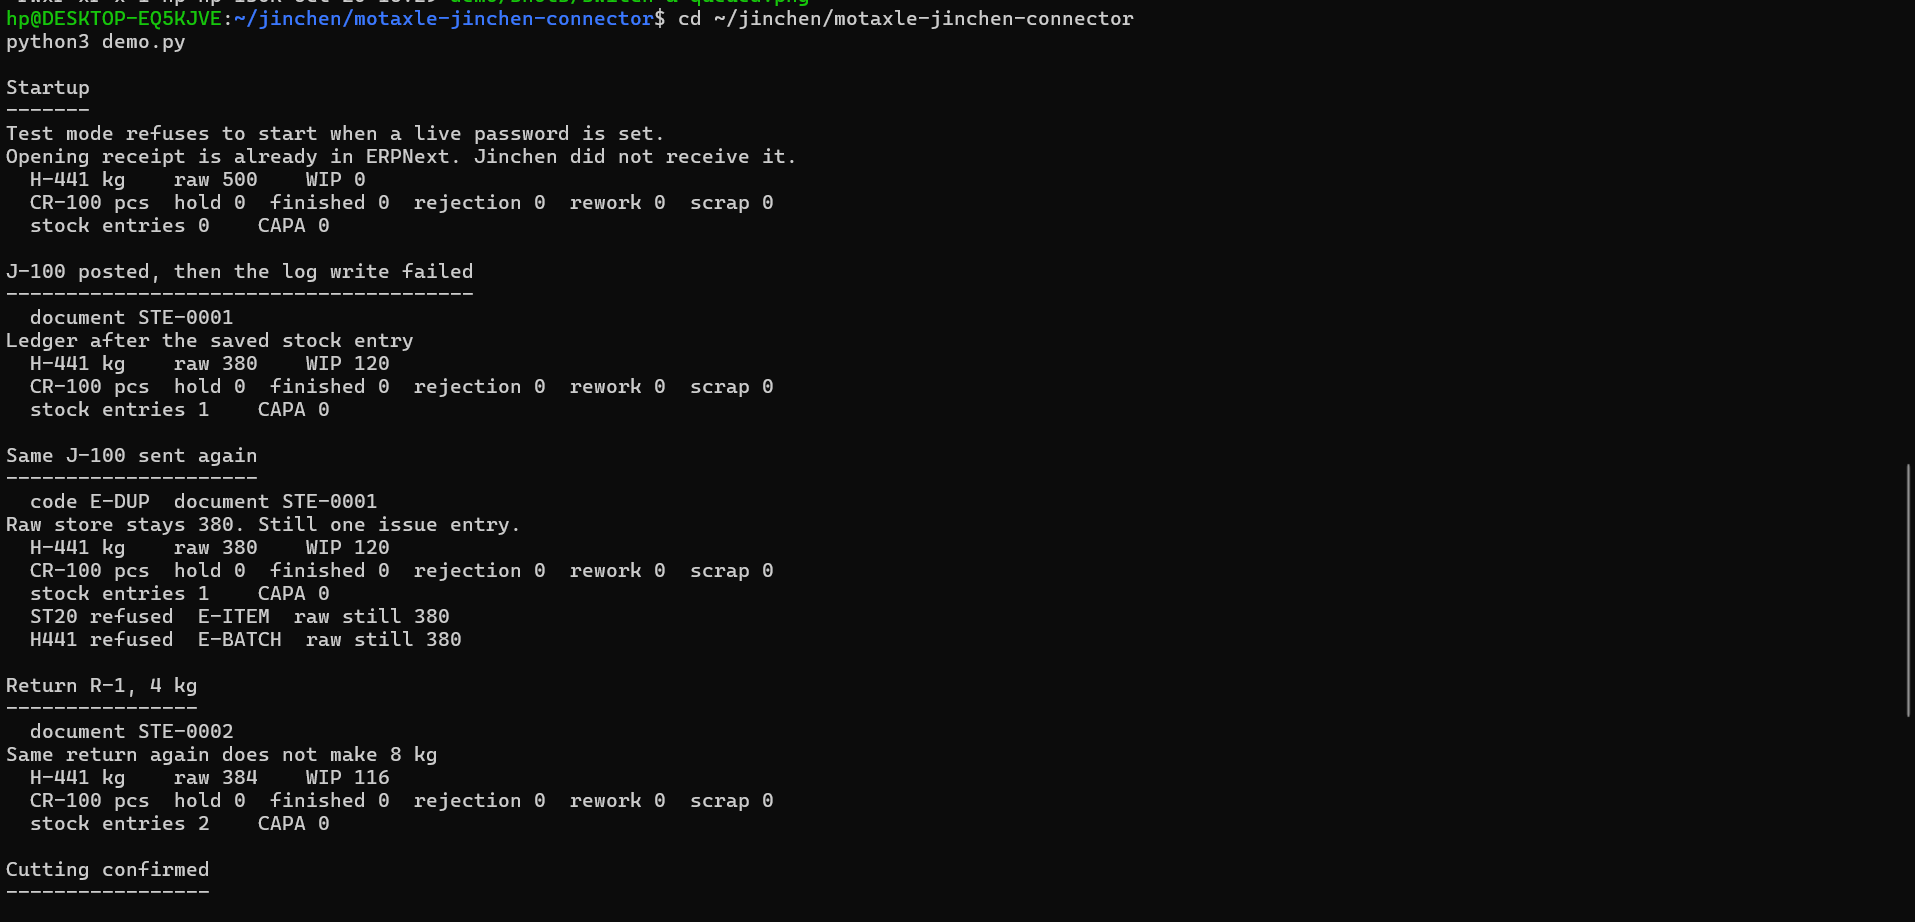
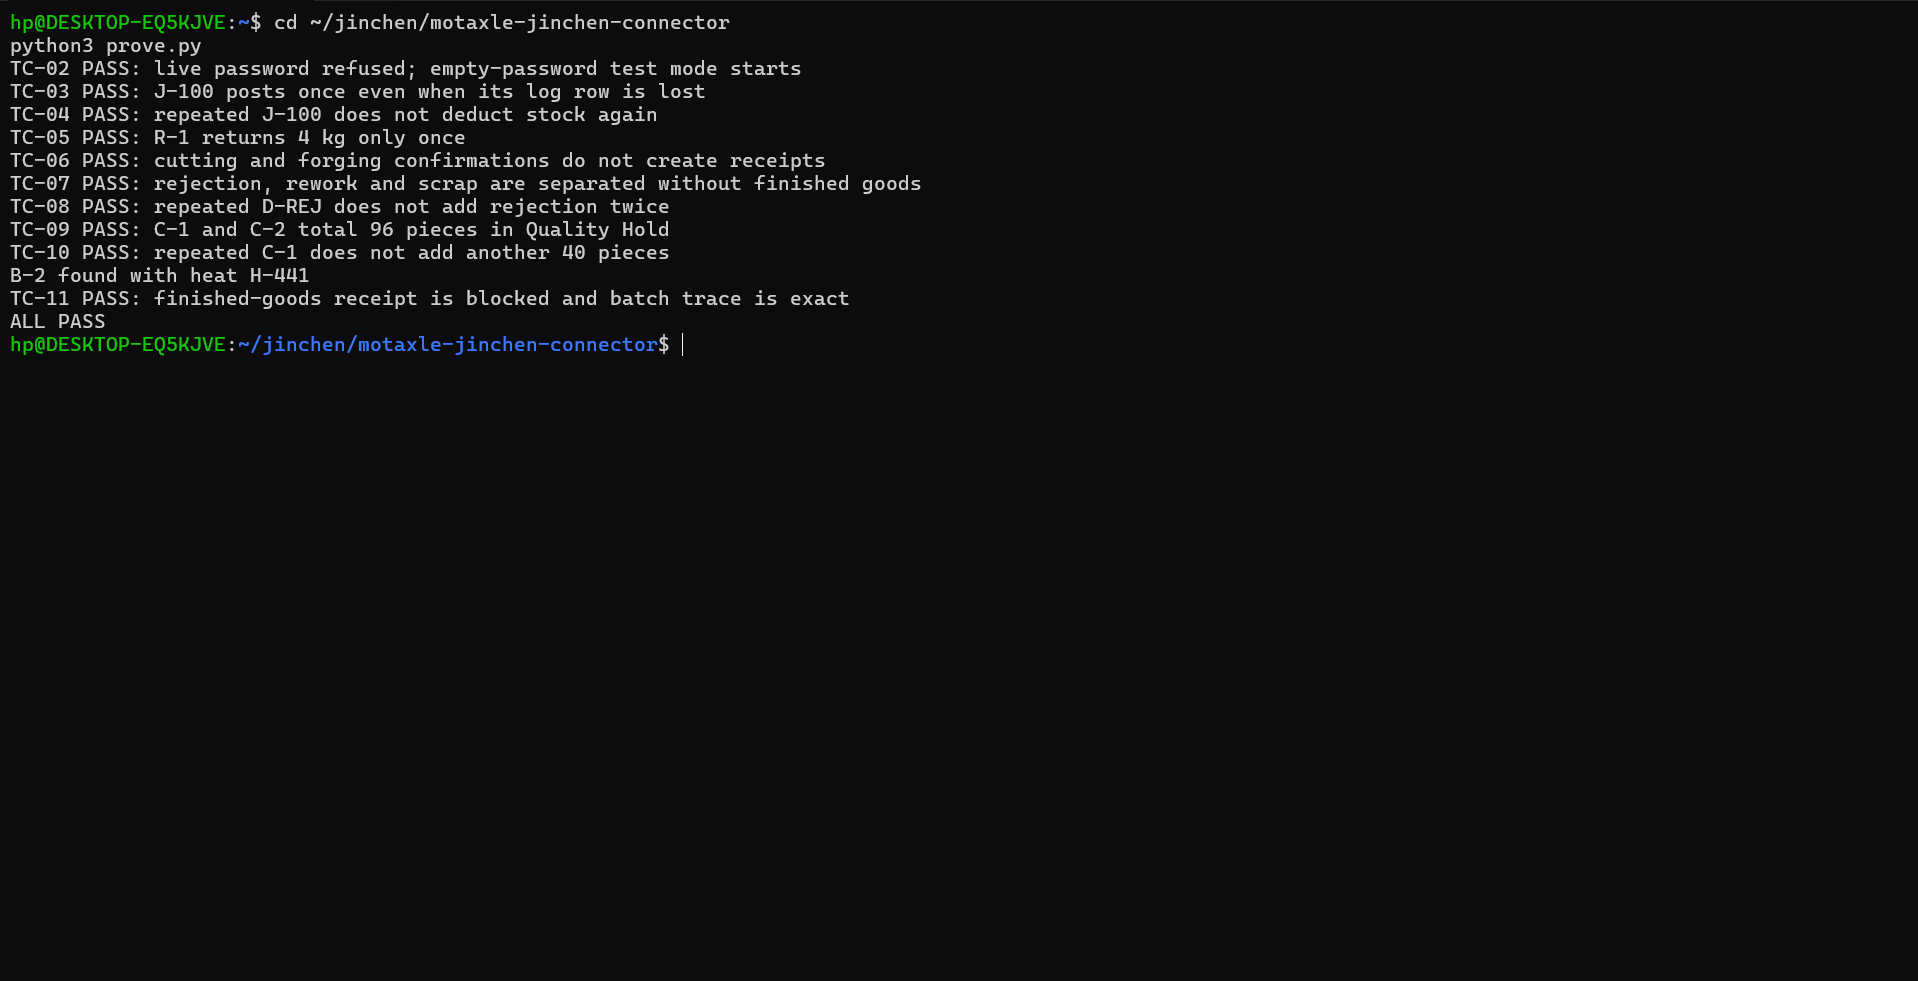
Add issue-linked returns and stock validation rules

diff --git a/motaxle-jinchen-connector/tests/test_rules.py b/motaxle-jinchen-connector/tests/test_rules.py
@@ -1,0 +1,185 @@
+
+
+import unittest
+
+from connector.poc import Connector
+
+
+def make_issue():
+    return {
+        "kind": "issue",
+        "id": "J-100",
+        "work_order": "WO-2401",
+        "item": "ST-20",
+        "qty": 120,
+        "uom": "Kg",
+        "batch": "H-441",
+        "from_warehouse": "Raw Material Store",
+        "to_warehouse": "Forging WIP",
+    }
+
+
+def make_return(ref, **overrides):
+    message = {
+        "kind": "return",
+        "id": ref,
+        "work_order": "WO-2401",
+        "against": "J-100",
+        "item": "ST-20",
+        "qty": 4,
+        "batch": "H-441",
+    }
+    message.update(overrides)
+    return message
+
+
+class ReturnUomRules(unittest.TestCase):
+    def test_wrong_return_uom_is_rejected_without_stock_change(self):
+        connector = Connector()
+        connector.process(make_issue())
+        before_kg = connector.kg().copy()
+        before_entries = len(connector.ledger.entries)
+
+        result = connector.process(make_return("R-BAD-UOM", uom="Nos"))
+
+        self.assertEqual(result.code, "E-UOM")
+        self.assertEqual(connector.kg(), before_kg)
+        self.assertEqual(len(connector.ledger.entries), before_entries)
+
+    def test_missing_return_uom_is_allowed(self):
+        connector = Connector()
+        connector.process(make_issue())
+
+        result = connector.process(make_return("R-NO-UOM"))
+
+        self.assertEqual(result.status, "Posted")
+        self.assertEqual(connector.kg()["raw"], 384)
+        self.assertEqual(connector.kg()["wip"], 116)
+
+
+if __name__ == "__main__":
+    unittest.main()
+
+
+class ReceiptUomRules(unittest.TestCase):
+    def make_receipt(self, ref, **overrides):
+        message = {
+            "kind": "receipt",
+            "id": ref,
+            "work_order": "WO-2401",
+            "item": "CR-100",
+            "qty": 5,
+            "batch": "B-UOM",
+        }
+        message.update(overrides)
+        return message
+
+    def test_wrong_receipt_uom_is_rejected_without_stock_change(self):
+        connector = Connector()
+        before_pieces = connector.pieces().copy()
+        before_entries = len(connector.ledger.entries)
+
+        result = connector.process(
+            self.make_receipt("C-BAD-UOM", uom="Kg")
+        )
+
+        self.assertEqual(result.code, "E-UOM")
+        self.assertEqual(connector.pieces(), before_pieces)
+        self.assertEqual(len(connector.ledger.entries), before_entries)
+
+    def test_missing_receipt_uom_is_allowed(self):
+        connector = Connector()
+
+        result = connector.process(self.make_receipt("C-NO-UOM"))
+
+        self.assertEqual(result.status, "Posted")
+        self.assertEqual(connector.pieces()["hold"], 5)
+        self.assertEqual(connector.pieces()["finished"], 0)
+
+
+class DispositionItemRules(unittest.TestCase):
+    def make_disposition(self, ref, **overrides):
+        message = {
+            "kind": "disposition",
+            "id": ref,
+            "work_order": "WO-2401",
+            "item": "CR-100",
+            "qty": 2,
+            "decision": "rejection",
+            "reason": "forge-crack",
+        }
+        message.update(overrides)
+        return message
+
+    def assert_item_rejected(self, message):
+        connector = Connector()
+        before_kg = connector.kg().copy()
+        before_pieces = connector.pieces().copy()
+        before_entries = len(connector.ledger.entries)
+        before_capa = connector.ledger.capa
+
+        result = connector.process(message)
+
+        self.assertEqual(result.code, "E-ITEM")
+        self.assertEqual(connector.kg(), before_kg)
+        self.assertEqual(connector.pieces(), before_pieces)
+        self.assertEqual(connector.pieces()["finished"], 0)
+        self.assertEqual(connector.ledger.capa, before_capa)
+        self.assertEqual(len(connector.ledger.entries), before_entries)
+
+    def test_wrong_disposition_item_is_rejected(self):
+        self.assert_item_rejected(
+            self.make_disposition("D-WRONG-ITEM", item="ST-20")
+        )
+
+    def test_missing_disposition_item_is_rejected(self):
+        self.assert_item_rejected(
+            self.make_disposition("D-MISSING-ITEM", item="")
+        )
+
+
+class ReturnAgainstIssueRules(unittest.TestCase):
+    def test_returns_reduce_only_their_own_issue_quantity(self):
+        connector = Connector()
+
+        first_issue = make_issue()
+        first_issue["qty"] = 120
+
+        second_issue = make_issue()
+        second_issue.update({"id": "J-200", "qty": 100})
+
+        self.assertEqual(connector.process(first_issue).status, "Posted")
+        self.assertEqual(connector.process(second_issue).status, "Posted")
+
+        first_return = make_return("R-100", qty=20)
+        second_return = make_return("R-200", against="J-200", qty=30)
+
+        self.assertEqual(connector.process(first_return).status, "Posted")
+        self.assertEqual(connector.process(second_return).status, "Posted")
+
+        self.assertEqual(connector._issued_remaining("J-100", "WO-2401"), (120, 100))
+        self.assertEqual(connector._issued_remaining("J-200", "WO-2401"), (100, 70))
+
+
+class CapaControlRules(unittest.TestCase):
+    def test_explicit_open_capa_adds_one_row(self):
+        connector = Connector()
+
+        connector.ledger.open_capa(
+            "D-100", "WO-2401", "forge-crack"
+        )
+
+        self.assertEqual(connector.ledger.capa, 1)
+        self.assertEqual(
+            connector.ledger.capa_rows,
+            [("D-100", "WO-2401", "forge-crack")],
+        )
+
+    def test_normal_workflow_does_not_open_capa(self):
+        connector = Connector()
+
+        connector.process(make_issue())
+        connector.process(make_return("R-100"))
+
+        self.assertEqual(connector.ledger.capa, 0)
+        self.assertEqual(connector.ledger.capa_rows, [])

diff --git a/motaxle-jinchen-connector/connector/poc.py b/motaxle-jinchen-connector/connector/poc.py
@@ -52,6 +52,7 @@ class Entry:
     batch: str
     source: str
     target: str
+    against: str = ""
 
 
 @dataclass
@@ -76,8 +77,15 @@ class Result:
 class Ledger:
     bins: dict = field(default_factory=dict)
     entries: list = field(default_factory=list)
-    capa: int = 0
+    capa_rows: list = field(default_factory=list)
     _n: int = 0
+
+    def open_capa(self, ref, work_order, reason):
+        self.capa_rows.append((ref, work_order, reason))
+
+    @property
+    def capa(self):
+        return len(self.capa_rows)
 
     def qty(self, warehouse, item, batch=""):
         return self.bins.get((warehouse, item, batch), 0.0)
@@ -86,10 +94,11 @@ class Ledger:
         key = (warehouse, item, batch)
         self.bins[key] = self.bins.get(key, 0.0) + qty
 
-    def submit(self, kind, ref, work_order, item, qty, uom, batch, source, target):
+    def submit(self, kind, ref, work_order, item, qty, uom, batch, source, target, against=""):
         self._n += 1
         entry = Entry(
-            "STE-%04d" % self._n, kind, ref, work_order, item, qty, uom, batch, source, target
+            "STE-%04d" % self._n, kind, ref, work_order, item, qty, uom, batch, source, target,
+            against=against,
         )
         if source:
             self.add(source, item, batch, -qty)
@@ -180,7 +189,7 @@ class Connector:
                 continue
             if entry.kind == "issue" and entry.ref == issue_id:
                 issued += entry.qty
-            if entry.kind == "return" and entry.batch == "H-441":
+            if entry.kind == "return" and entry.against == issue_id:
                 returned += entry.qty
         return issued, issued - returned
 
@@ -194,13 +203,22 @@ class Connector:
         if message.get("as_scrap"):
             return self._done("Business Rejected", "E-REASON", "", "Scrap is not a return.", ref, work_order, "return", drop_log)
         issued, remaining = self._issued_remaining(issue_id, work_order)
-        if issued <= 0:
+        issue_entry = next(
+            (entry for entry in self.ledger.entries
+             if entry.kind == "issue" and entry.ref == issue_id
+             and entry.work_order == work_order and entry.item == "ST-20"),
+            None,
+        )
+        if issued <= 0 or issue_entry is None:
             return self._done("Business Rejected", "E-ITEM", "", "Original issue was not posted.", ref, work_order, "return", drop_log)
-        if item != "ST-20" or batch != "H-441":
+        if item != issue_entry.item or batch != issue_entry.batch:
             return self._done("Business Rejected", "E-BATCH", "", "Return must be ST-20 heat H-441.", ref, work_order, "return", drop_log)
+        uom = message.get("uom") or ""
+        if uom and uom != "Kg":
+            return self._done("Business Rejected", "E-UOM", "", "Return unit must be Kg.", ref, work_order, "return", drop_log)
         if qty <= 0 or qty > remaining:
             return self._done("Business Rejected", "E-QTY", "", "Return is above the quantity still out.", ref, work_order, "return", drop_log)
-        entry = self.ledger.submit("return", ref, work_order, "ST-20", qty, "Kg", "H-441", WIP, RAW)
+        entry = self.ledger.submit("return", ref, work_order, issue_entry.item, qty, "Kg", issue_entry.batch, WIP, RAW, against=issue_id)
         return self._done("Posted", "", entry.name, "Returned once.", ref, work_order, "return", drop_log)
 
     def _confirm(self, message, drop_log):
@@ -222,9 +240,12 @@ class Connector:
     def _disposition(self, message, drop_log):
         ref = message["id"]
         work_order = message["work_order"]
+        item = message.get("item") or ""
         reason = message.get("reason") or ""
         decision = message.get("decision") or ""
         qty = float(message.get("qty") or 0)
+        if item != "CR-100":
+            return self._done("Business Rejected", "E-ITEM", "", "Disposition item is not CR-100.", ref, work_order, "disposition", drop_log)
         if reason not in REASONS or REASONS[reason] != decision:
             return self._done("Business Rejected", "E-REASON", "", "Reason is blank or does not match the decision.", ref, work_order, "disposition", drop_log)
         if qty <= 0:
@@ -242,6 +263,9 @@ class Connector:
         asked = message.get("to_warehouse") or HOLD
         if item != "CR-100":
             return self._done("Business Rejected", "E-ITEM", "", "Receipt item is not CR-100.", ref, work_order, "receipt", drop_log)
+        uom = message.get("uom") or ""
+        if uom and uom != "Nos":
+            return self._done("Business Rejected", "E-UOM", "", "Receipt unit must be Nos.", ref, work_order, "receipt", drop_log)
         if qty <= 0:
             return self._done("Business Rejected", "E-QTY", "", "Quantity must be greater than zero.", ref, work_order, "receipt", drop_log)
         if asked == FG:
@@ -257,10 +281,14 @@ class Connector:
         if batch not in self.output_batches:
             return {"batch": batch, "result": "missing"}
         work_order, document = self.output_batches[batch]
-        issued = any(e.kind == "issue" and e.work_order == work_order and e.batch == "H-441" for e in self.ledger.entries)
-        if not issued:
+        issue_entry = next(
+            (entry for entry in self.ledger.entries
+             if entry.kind == "issue" and entry.work_order == work_order),
+            None,
+        )
+        if issue_entry is None:
             return {"batch": batch, "result": "missing"}
-        return {"batch": batch, "result": "found", "work_order": work_order, "heat": "H-441", "document": document}
+        return {"batch": batch, "result": "found", "work_order": work_order, "heat": issue_entry.batch, "document": document}
 
     def kg(self):
         return {

diff --git a/motaxle-jinchen-connector/tests/test_examples.py b/motaxle-jinchen-connector/tests/test_examples.py
@@ -26,6 +26,12 @@ class ExampleFileTests(unittest.TestCase):
         files = {path.name for path in EXAMPLES.glob("*.json")}
         self.assertEqual(files, EXPECTED_REFUSAL_FILES)
 
+        for filename in EXPECTED_REFUSAL_FILES:
+            data = self.load(filename)
+            self.assertIsInstance(data, dict)
+            for field in ("kind", "id", "work_order"):
+                self.assertIn(field, data)
+
     def test_st20_disk_example_is_rejected(self):
         connector = Connector()
         before = connector.kg().copy()

diff --git a/motaxle-jinchen-connector/prove.py b/motaxle-jinchen-connector/prove.py
@@ -120,6 +120,7 @@ def main():
         equal(pieces["scrap"], 1.0, "scrap")
         equal(pieces["finished"], 0.0, "finished goods")
         equal(c.ledger.capa, 0, "CAPA count")
+        equal(c.ledger.capa_rows, [], "CAPA rows")
         equal(c.kg(), {"raw": 384.0, "wip": 116.0}, "raw/WIP stock")
         equal(len(c.ledger.entries), 5, "entries after dispositions")
 
